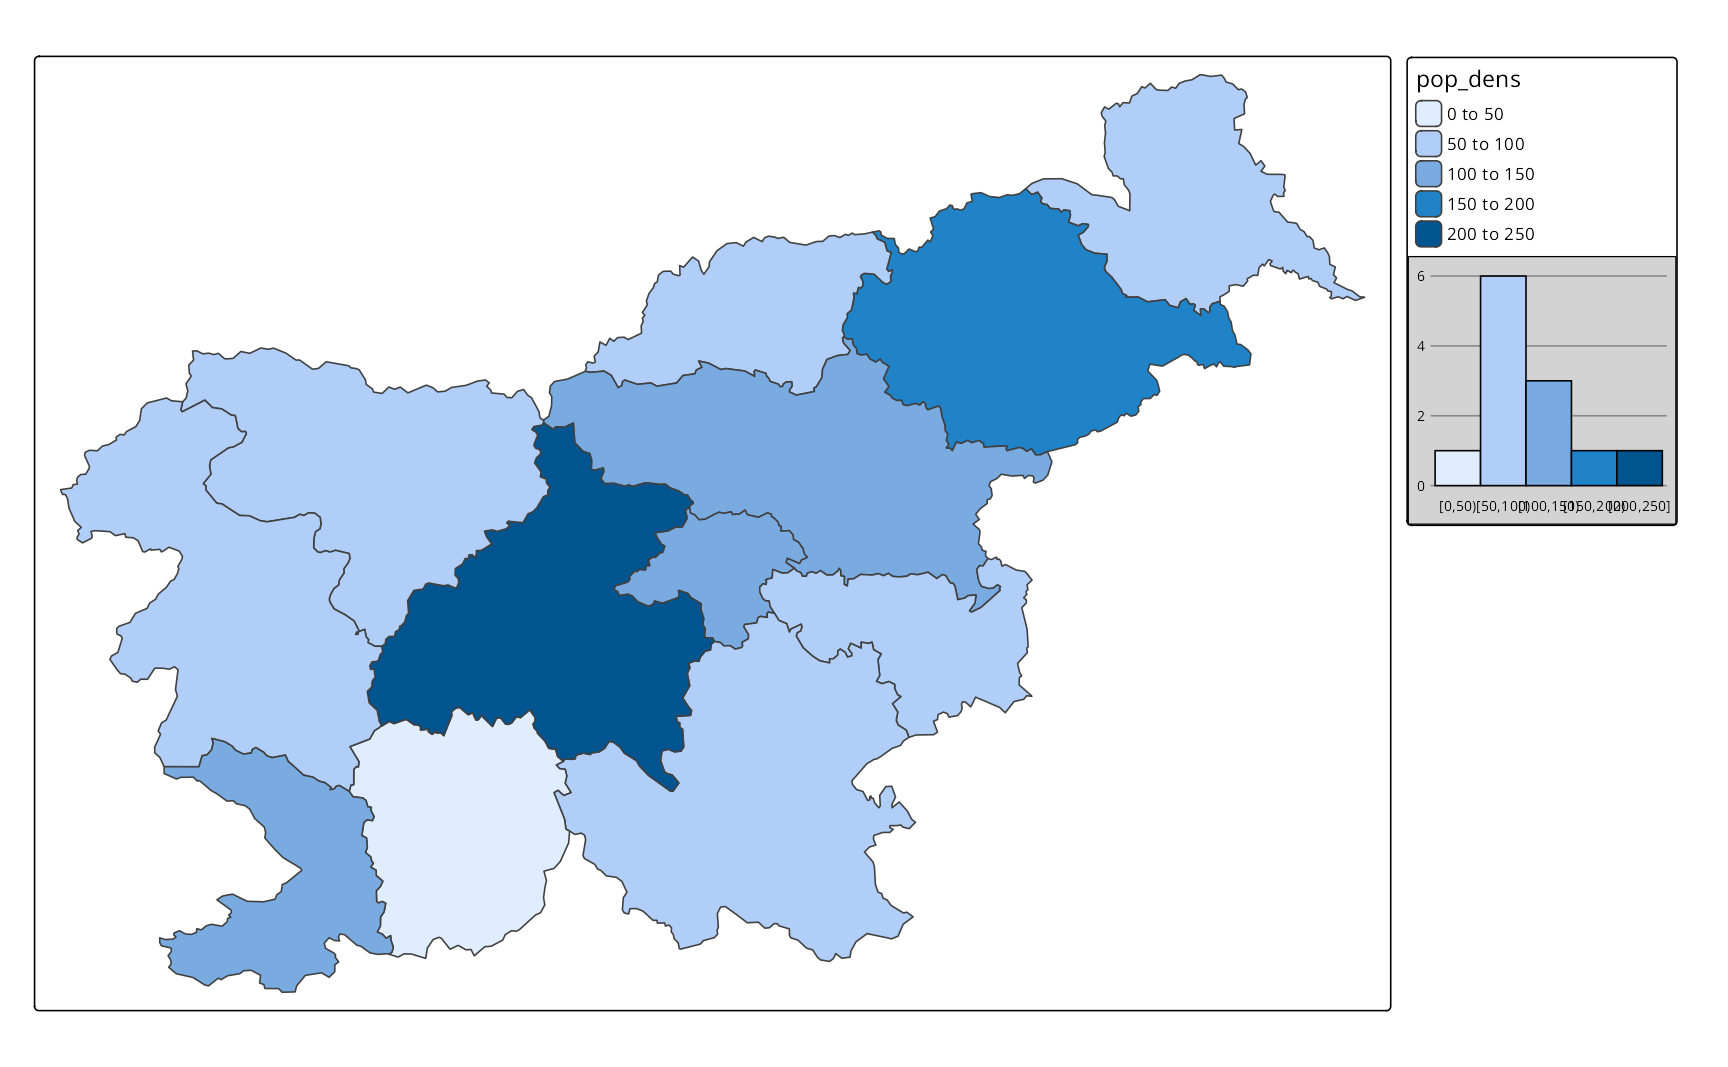
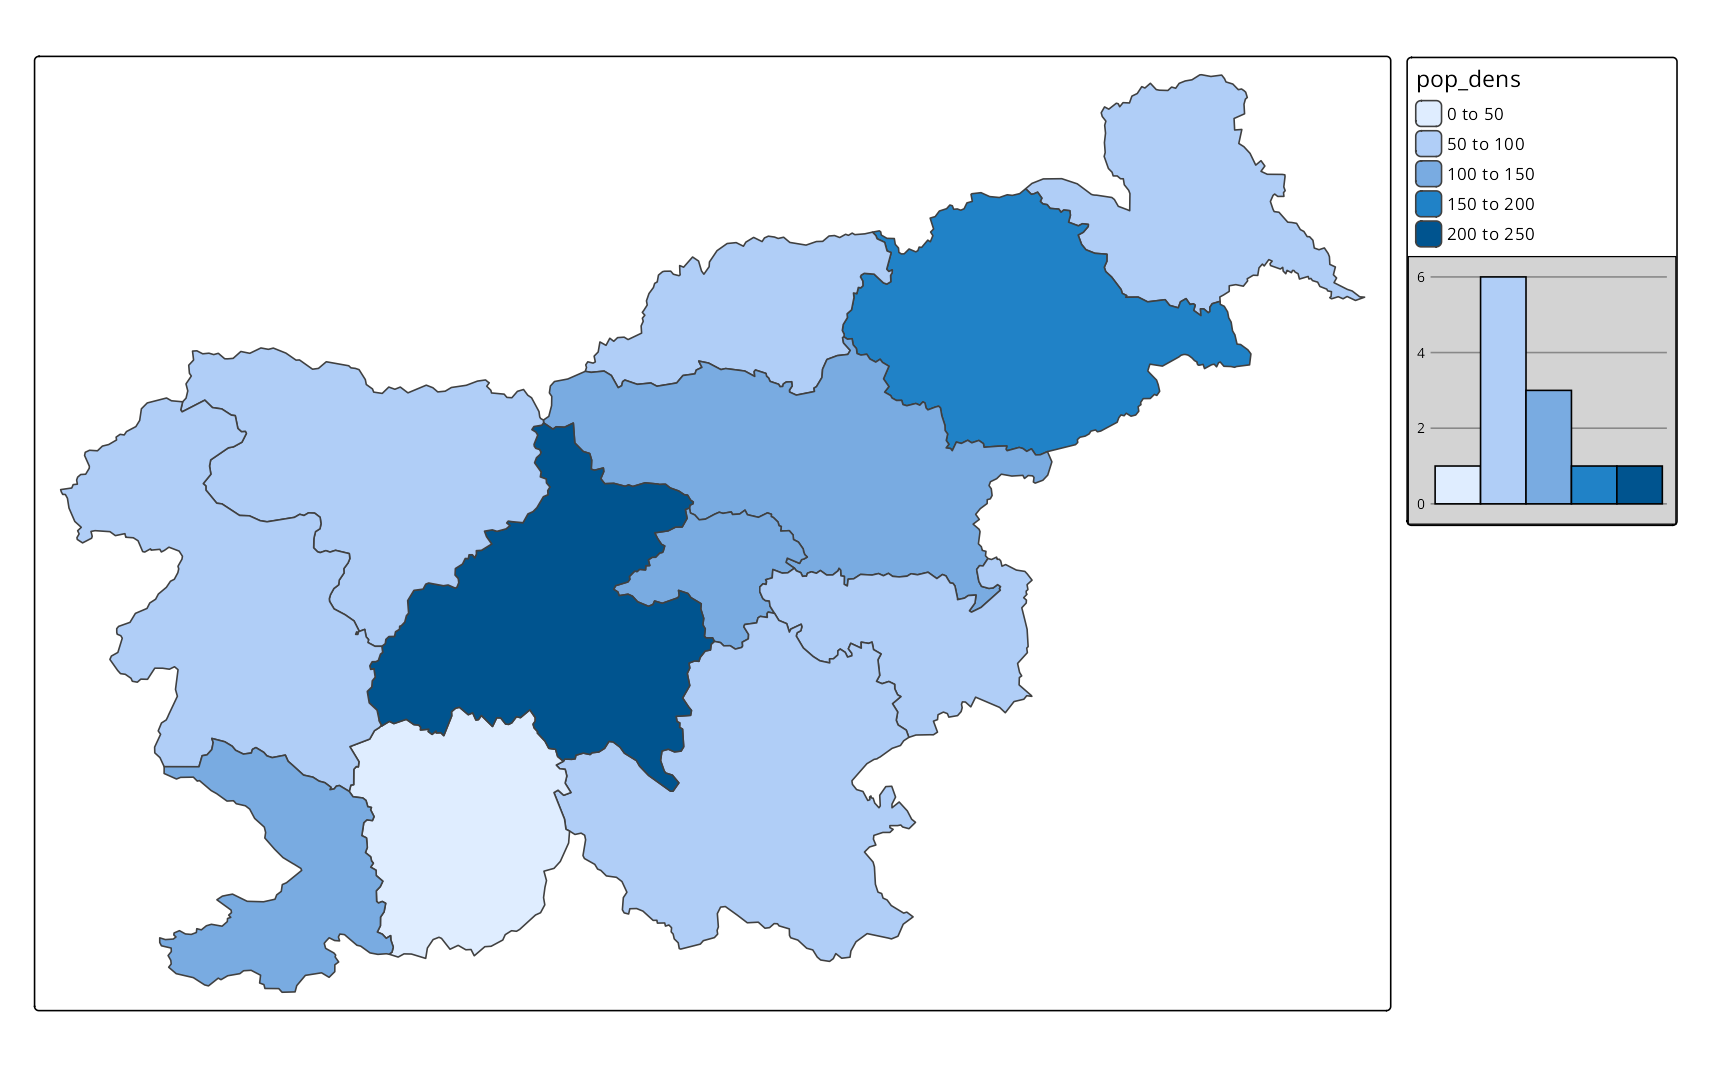
Deploy commit: completes chart text 103952d66c15de3160822c3447b2b95c28322037

diff --git a/charts.html b/charts.html
@@ -378,7 +378,7 @@ gtag('config', 'G-ER2GMPEJNF', { 'anonymize_ip': true});
 <li><a href="#numerical-data" id="toc-numerical-data" class="nav-link" data-scroll-target="#numerical-data"><span class="header-section-number">14.1</span> Numerical data</a></li>
   <li><a href="#categorical-data" id="toc-categorical-data" class="nav-link" data-scroll-target="#categorical-data"><span class="header-section-number">14.2</span> Categorical data</a></li>
   <li><a href="#bivariate-data" id="toc-bivariate-data" class="nav-link" data-scroll-target="#bivariate-data"><span class="header-section-number">14.3</span> Bivariate data</a></li>
-  <li><a href="#sec-charts-customization" id="toc-sec-charts-customization" class="nav-link" data-scroll-target="#sec-charts-customization"><span class="header-section-number">14.4</span> Additional customization</a></li>
+  <li><a href="#sec-charts-customization" id="toc-sec-charts-customization" class="nav-link" data-scroll-target="#sec-charts-customization"><span class="header-section-number">14.4</span> Additional chart customization</a></li>
   </ul><div class="toc-actions"><ul><li><a href="https://github.com/geocompx/tmap/edit/main/charts.qmd" class="toc-action"><i class="bi bi-github"></i>Edit this page</a></li></ul></div></nav>
     </div>
 <!-- main -->
@@ -617,6 +617,7 @@ Figure&nbsp;14.2: Charts for numerical data.
 </div>
 </section><section id="categorical-data" class="level2" data-number="14.2"><h2 data-number="14.2" class="anchored" data-anchor-id="categorical-data">
 <span class="header-section-number">14.2</span> Categorical data</h2>
+<p>The second group of charts is used for categorical data – which can take only a limited number of values. It includes bar charts (<code><a href="https://r-tmap.github.io/tmap/reference/tm_chart.html">tm_chart_donut()</a></code>) and donut charts (<code><a href="https://r-tmap.github.io/tmap/reference/tm_chart.html">tm_chart_bar()</a></code>): bar charts show the frequency of each category, while donut charts show the proportions of each category (<a href="#fig-chart-cat" class="quarto-xref">Figure&nbsp;<span>14.3</span></a>). In the examples below, we represent the region groups of each region in Slovenia and observe that there are more regions in the “Central” and “West” groups than in the others.</p>
 <div class="cell" data-layout-align="center">
 <div class="sourceCode" id="cb5"><pre class="downlit sourceCode r code-with-copy"><code class="sourceCode R"><span><span class="fu"><a href="https://r-tmap.github.io/tmap/reference/tm_shape.html">tm_shape</a></span><span class="op">(</span><span class="va">slo_regions</span><span class="op">)</span> <span class="op">+</span></span>
 <span>  <span class="fu"><a href="https://r-tmap.github.io/tmap/reference/tm_polygons.html">tm_polygons</a></span><span class="op">(</span>fill <span class="op">=</span> <span class="st">"region_group"</span>,</span>
@@ -639,6 +640,7 @@ Figure&nbsp;14.3: Charts for categorical data.
 </div>
 </section><section id="bivariate-data" class="level2" data-number="14.3"><h2 data-number="14.3" class="anchored" data-anchor-id="bivariate-data">
 <span class="header-section-number">14.3</span> Bivariate data</h2>
+<p>The third group of charts is used for bivariate data, i.e., data that contains two variables. It includes a heatmap chart (<code><a href="https://r-tmap.github.io/tmap/reference/tm_chart.html">tm_chart_heatmap()</a></code>) that shows how often each combination of values occurs in the data (<a href="#fig-chart-bivariate" class="quarto-xref">Figure&nbsp;<span>14.4</span></a>). <!-- one more sentence? --></p>
 <div class="cell" data-layout-align="center">
 <div class="sourceCode" id="cb6"><pre class="downlit sourceCode r code-with-copy"><code class="sourceCode R"><span><span class="fu"><a href="https://r-tmap.github.io/tmap/reference/tm_shape.html">tm_shape</a></span><span class="op">(</span><span class="va">slo_regions</span><span class="op">)</span> <span class="op">+</span></span>
 <span>  <span class="fu"><a href="https://r-tmap.github.io/tmap/reference/tm_polygons.html">tm_polygons</a></span><span class="op">(</span>fill <span class="op">=</span> <span class="fu"><a href="https://r-tmap.github.io/tmap/reference/tm_vars.html">tm_vars</a></span><span class="op">(</span><span class="fu"><a href="https://rdrr.io/r/base/c.html">c</a></span><span class="op">(</span><span class="st">"pop_dens"</span>, <span class="st">"pop65perc"</span><span class="op">)</span>, multivariate <span class="op">=</span> <span class="cn">TRUE</span><span class="op">)</span>,</span>
@@ -656,15 +658,15 @@ Figure&nbsp;14.4: Bivariate charts used in case of representing a relationship b
 </div>
 </div>
 </section><section id="sec-charts-customization" class="level2" data-number="14.4"><h2 data-number="14.4" class="anchored" data-anchor-id="sec-charts-customization">
-<span class="header-section-number">14.4</span> Additional customization</h2>
-<!-- with ggplot2 package and/or book reference -->
-<!-- https://github.com/geocompx/tmap/issues/10#issuecomment-3007409988 -->
+<span class="header-section-number">14.4</span> Additional chart customization</h2>
+<p>All of the charts are directly based on the visual variables from the map layer and then created using the <strong>ggplot2</strong> package. By default, however, the charts are much simplified, not showing all the details that <strong>ggplot2</strong> can provide, such as axis labels, titles, and various theme elements. <!-- with ggplot2 package and/or book reference --> <!-- https://github.com/geocompx/tmap/issues/10#issuecomment-3007409988 --></p>
+<p>At the same time, we may want to customize the charts to fit our map design better or to add more information. This can be done with additional arguments of the <code>tm_chart_*()</code> functions, such as <code>plot.axis.x</code>, <code>plot.axis.y</code>, and <code>extra.ggplot2</code>. The first two are logical arguments that control whether the x and y axes are shown in the chart, respectively. The last one, <code>extra.ggplot2</code>, is a list of additional <strong>ggplot2</strong> functions that are applied to the chart – for example, we may want to change the aesthetics of the chart, such as the background color as shown in <a href="#fig-chart-ggplot1" class="quarto-xref">Figure&nbsp;<span>14.5</span></a>.</p>
 <div class="cell" data-layout-align="center">
 <div class="sourceCode" id="cb7"><pre class="downlit sourceCode r code-with-copy"><code class="sourceCode R"><span><span class="kw"><a href="https://rdrr.io/r/base/library.html">library</a></span><span class="op">(</span><span class="va"><a href="https://ggplot2.tidyverse.org">ggplot2</a></span><span class="op">)</span></span>
 <span><span class="fu"><a href="https://r-tmap.github.io/tmap/reference/tm_shape.html">tm_shape</a></span><span class="op">(</span><span class="va">slo_regions</span><span class="op">)</span> <span class="op">+</span></span>
 <span>  <span class="fu"><a href="https://r-tmap.github.io/tmap/reference/tm_polygons.html">tm_polygons</a></span><span class="op">(</span>fill <span class="op">=</span> <span class="st">"pop_dens"</span>,</span>
 <span>              fill.chart <span class="op">=</span> <span class="fu"><a href="https://r-tmap.github.io/tmap/reference/tm_chart.html">tm_chart_histogram</a></span><span class="op">(</span></span>
-<span>                plot.axis.x <span class="op">=</span> <span class="cn">TRUE</span>,</span>
+<span>                plot.axis.x <span class="op">=</span> <span class="cn">FALSE</span>,</span>
 <span>                extra.ggplot2 <span class="op">=</span> <span class="fu"><a href="https://rdrr.io/r/base/list.html">list</a></span><span class="op">(</span><span class="fu"><a href="https://ggplot2.tidyverse.org/reference/theme.html">theme</a></span><span class="op">(</span>plot.background <span class="op">=</span> <span class="fu"><a href="https://ggplot2.tidyverse.org/reference/element.html">element_rect</a></span><span class="op">(</span>fill <span class="op">=</span> <span class="st">"lightgray"</span><span class="op">)</span><span class="op">)</span><span class="op">)</span></span>
 <span>              <span class="op">)</span><span class="op">)</span></span></code><button title="Copy to Clipboard" class="code-copy-button"><i class="bi"></i></button></pre></div>
 <div class="cell-output-display">
@@ -678,16 +680,17 @@ Figure&nbsp;14.5: Customizing charts with ggplot2.
 </div>
 </div>
 </div>
+<p><a href="#fig-chart-ggplot2" class="quarto-xref">Figure&nbsp;<span>14.6</span></a> shows a more advanced modification of the chart. It adds x and y axes, next, it adds a title to the chart, flips the chart coordinates, and changes the chart background color and title size. Next, it moves the chart to the top left corner of the map and sets its width. Having such a customized chart provides all of the important map context information: variable name, unit, ranges of the values and their related colors. Thus, we can treat it as a map legend and remove the default legend using <code>fill.legend = tm_legend(show = FALSE)</code>.</p>
 <div class="cell" data-layout-align="center">
 <div class="sourceCode" id="cb8"><pre class="downlit sourceCode r code-with-copy"><code class="sourceCode R"><span><span class="fu"><a href="https://r-tmap.github.io/tmap/reference/tm_shape.html">tm_shape</a></span><span class="op">(</span><span class="va">slo_regions</span><span class="op">)</span> <span class="op">+</span></span>
 <span>  <span class="fu"><a href="https://r-tmap.github.io/tmap/reference/tm_polygons.html">tm_polygons</a></span><span class="op">(</span>fill <span class="op">=</span> <span class="st">"pop_dens"</span>,</span>
 <span>              fill.chart <span class="op">=</span> <span class="fu"><a href="https://r-tmap.github.io/tmap/reference/tm_chart.html">tm_chart_histogram</a></span><span class="op">(</span></span>
 <span>                plot.axis.x <span class="op">=</span> <span class="cn">TRUE</span>,</span>
 <span>                plot.axis.y <span class="op">=</span> <span class="cn">TRUE</span>,</span>
-<span>                extra.ggplot2 <span class="op">=</span> <span class="fu"><a href="https://rdrr.io/r/base/list.html">list</a></span><span class="op">(</span><span class="fu"><a href="https://ggplot2.tidyverse.org/reference/theme.html">theme</a></span><span class="op">(</span>plot.background <span class="op">=</span> <span class="fu"><a href="https://ggplot2.tidyverse.org/reference/element.html">element_rect</a></span><span class="op">(</span>fill <span class="op">=</span> <span class="st">"#FFC067"</span><span class="op">)</span>,</span>
-<span>                                           plot.title <span class="op">=</span> <span class="fu">ggplot2</span><span class="fu">::</span><span class="fu"><a href="https://ggplot2.tidyverse.org/reference/element.html">element_text</a></span><span class="op">(</span>size <span class="op">=</span> <span class="fl">10</span><span class="op">)</span><span class="op">)</span>,</span>
+<span>                extra.ggplot2 <span class="op">=</span> <span class="fu"><a href="https://rdrr.io/r/base/list.html">list</a></span><span class="op">(</span><span class="fu"><a href="https://ggplot2.tidyverse.org/reference/labs.html">labs</a></span><span class="op">(</span>title <span class="op">=</span> <span class="st">"Population density (people/sq. km)"</span><span class="op">)</span>,</span>
 <span>                                     <span class="fu"><a href="https://ggplot2.tidyverse.org/reference/coord_flip.html">coord_flip</a></span><span class="op">(</span><span class="op">)</span>,</span>
-<span>                                     <span class="fu"><a href="https://ggplot2.tidyverse.org/reference/labs.html">labs</a></span><span class="op">(</span>title <span class="op">=</span> <span class="st">"Population density"</span><span class="op">)</span><span class="op">)</span>,</span>
+<span>                                     <span class="fu"><a href="https://ggplot2.tidyverse.org/reference/theme.html">theme</a></span><span class="op">(</span>plot.background <span class="op">=</span> <span class="fu"><a href="https://ggplot2.tidyverse.org/reference/element.html">element_rect</a></span><span class="op">(</span>fill <span class="op">=</span> <span class="st">"#FFC067"</span><span class="op">)</span>,</span>
+<span>                                           plot.title <span class="op">=</span> <span class="fu">ggplot2</span><span class="fu">::</span><span class="fu"><a href="https://ggplot2.tidyverse.org/reference/element.html">element_text</a></span><span class="op">(</span>size <span class="op">=</span> <span class="fl">10</span><span class="op">)</span><span class="op">)</span><span class="op">)</span>,</span>
 <span>                position <span class="op">=</span> <span class="fu"><a href="https://r-tmap.github.io/tmap/reference/tm_pos.html">tm_pos_in</a></span><span class="op">(</span><span class="st">"LEFT"</span>, <span class="st">"TOP"</span><span class="op">)</span>,</span>
 <span>                width <span class="op">=</span> <span class="fl">20</span>,</span>
 <span>              <span class="op">)</span>,</span>
